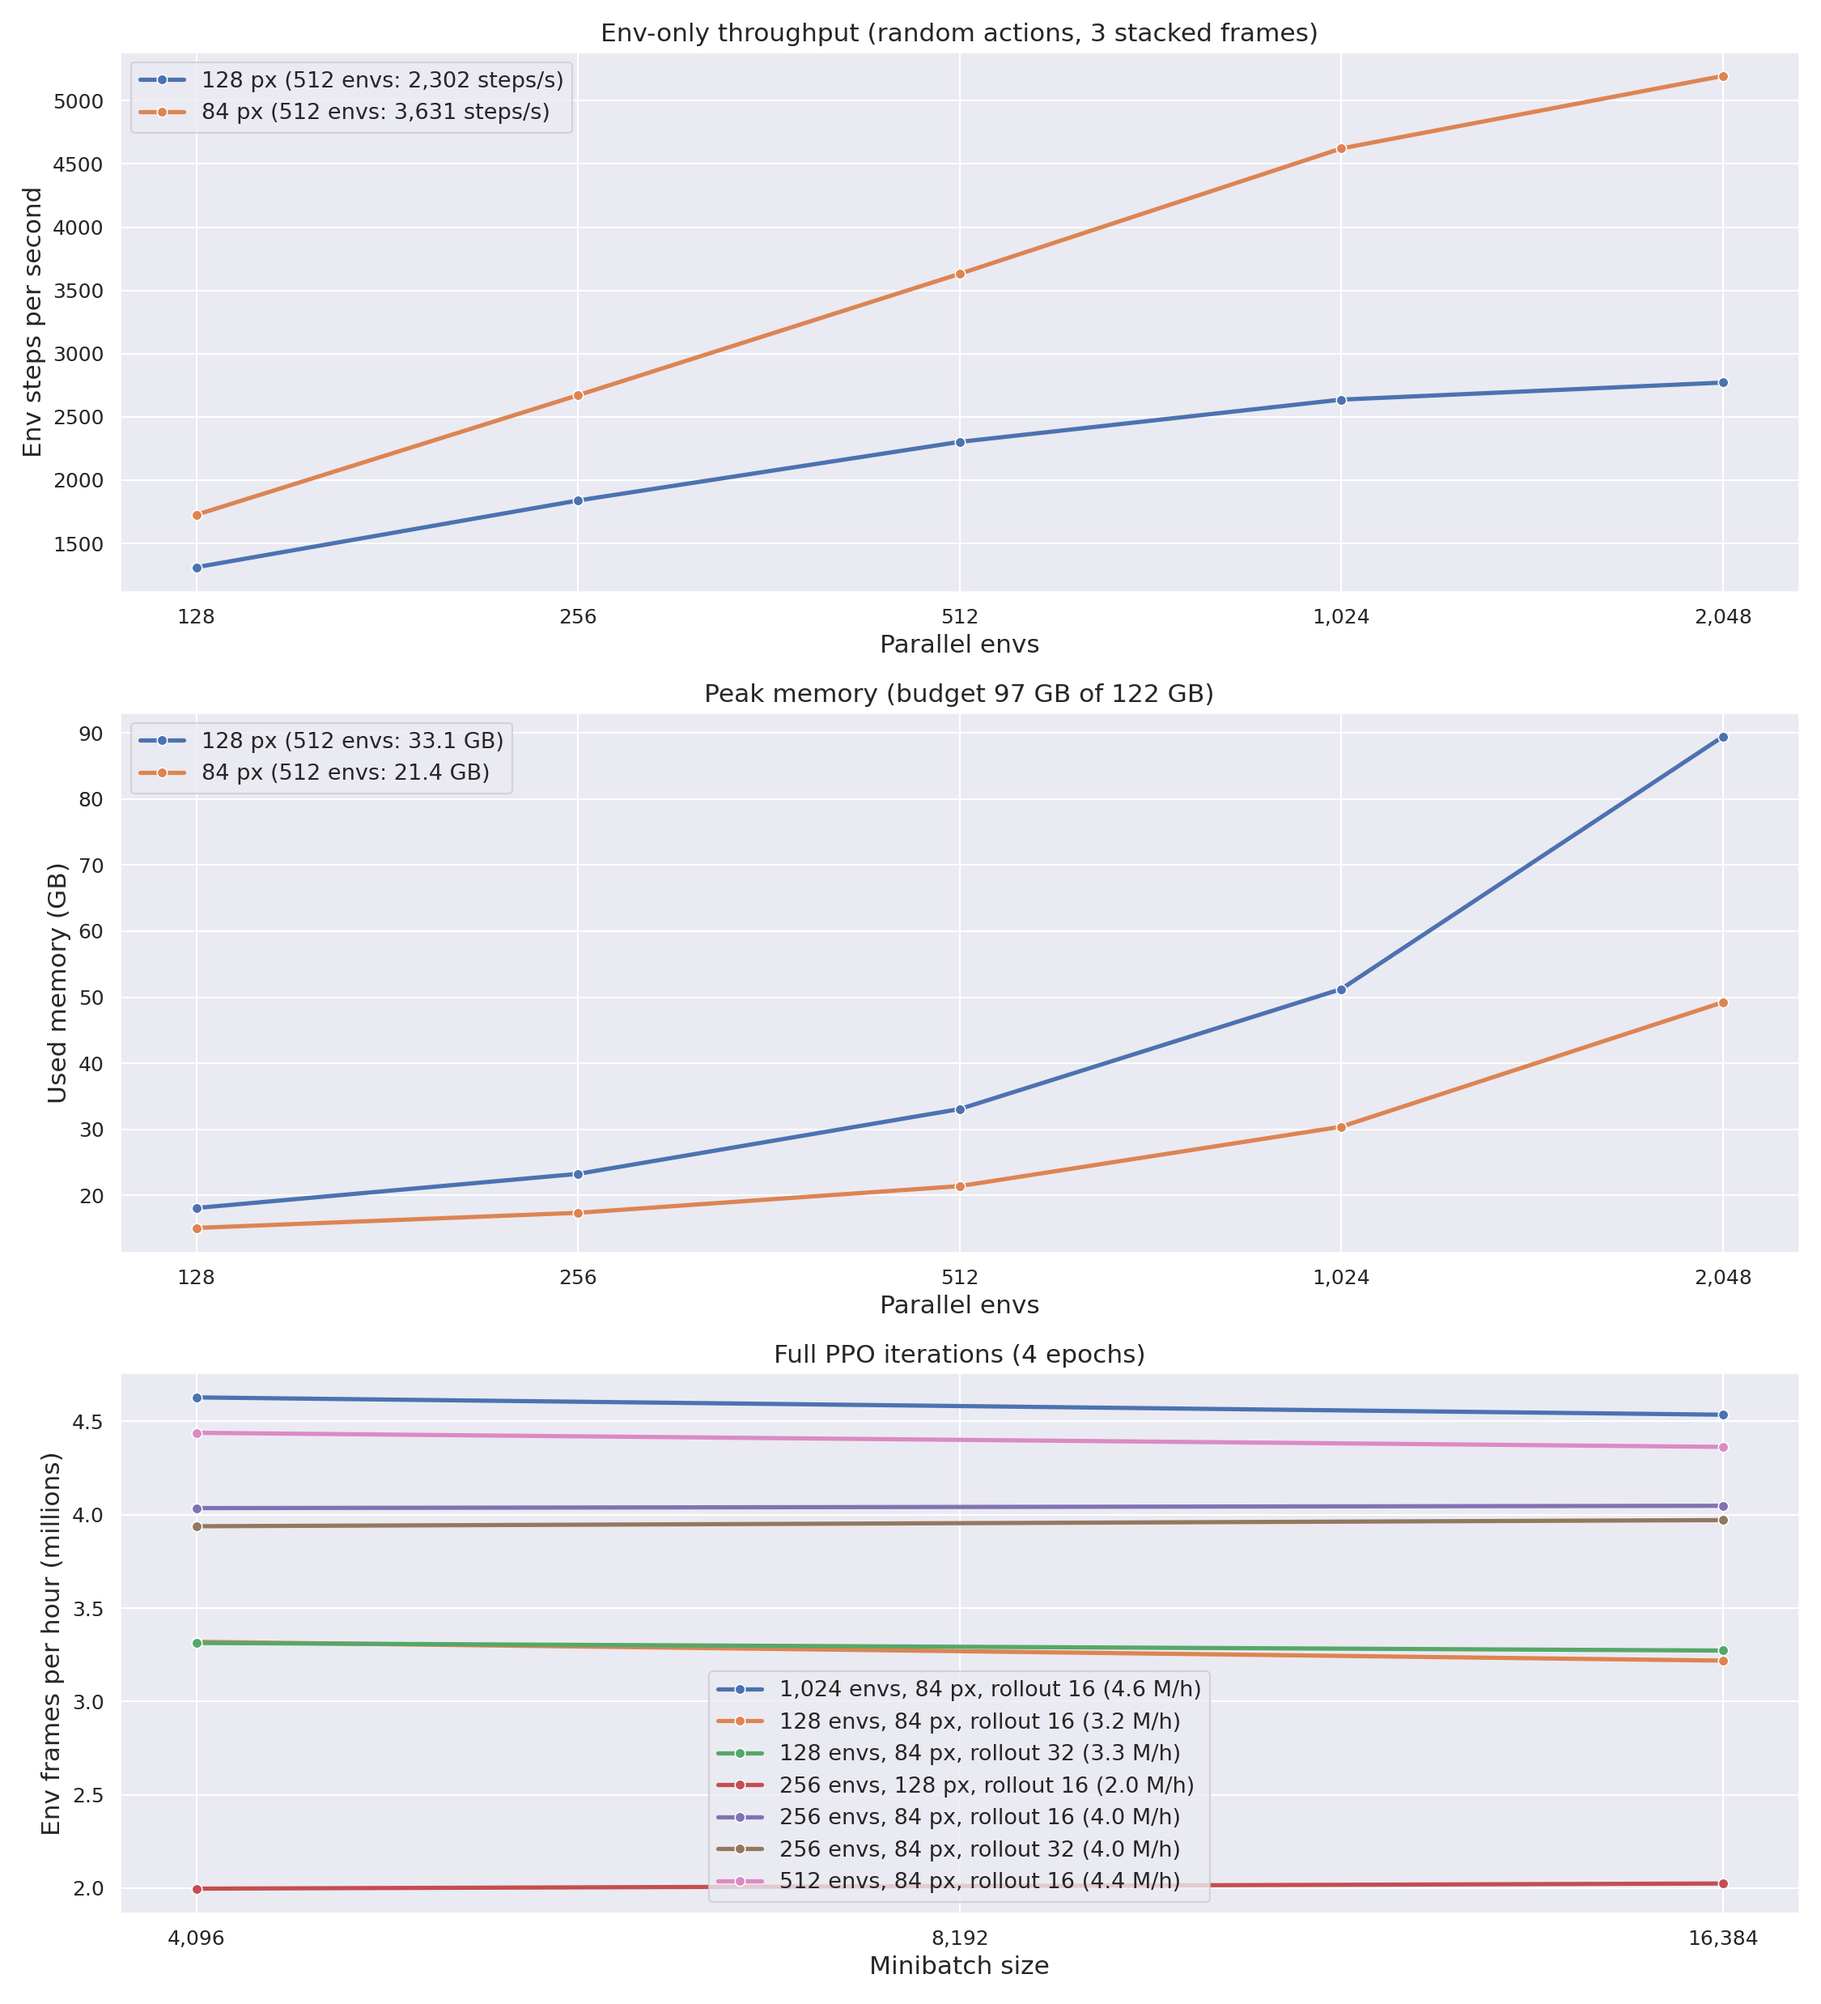
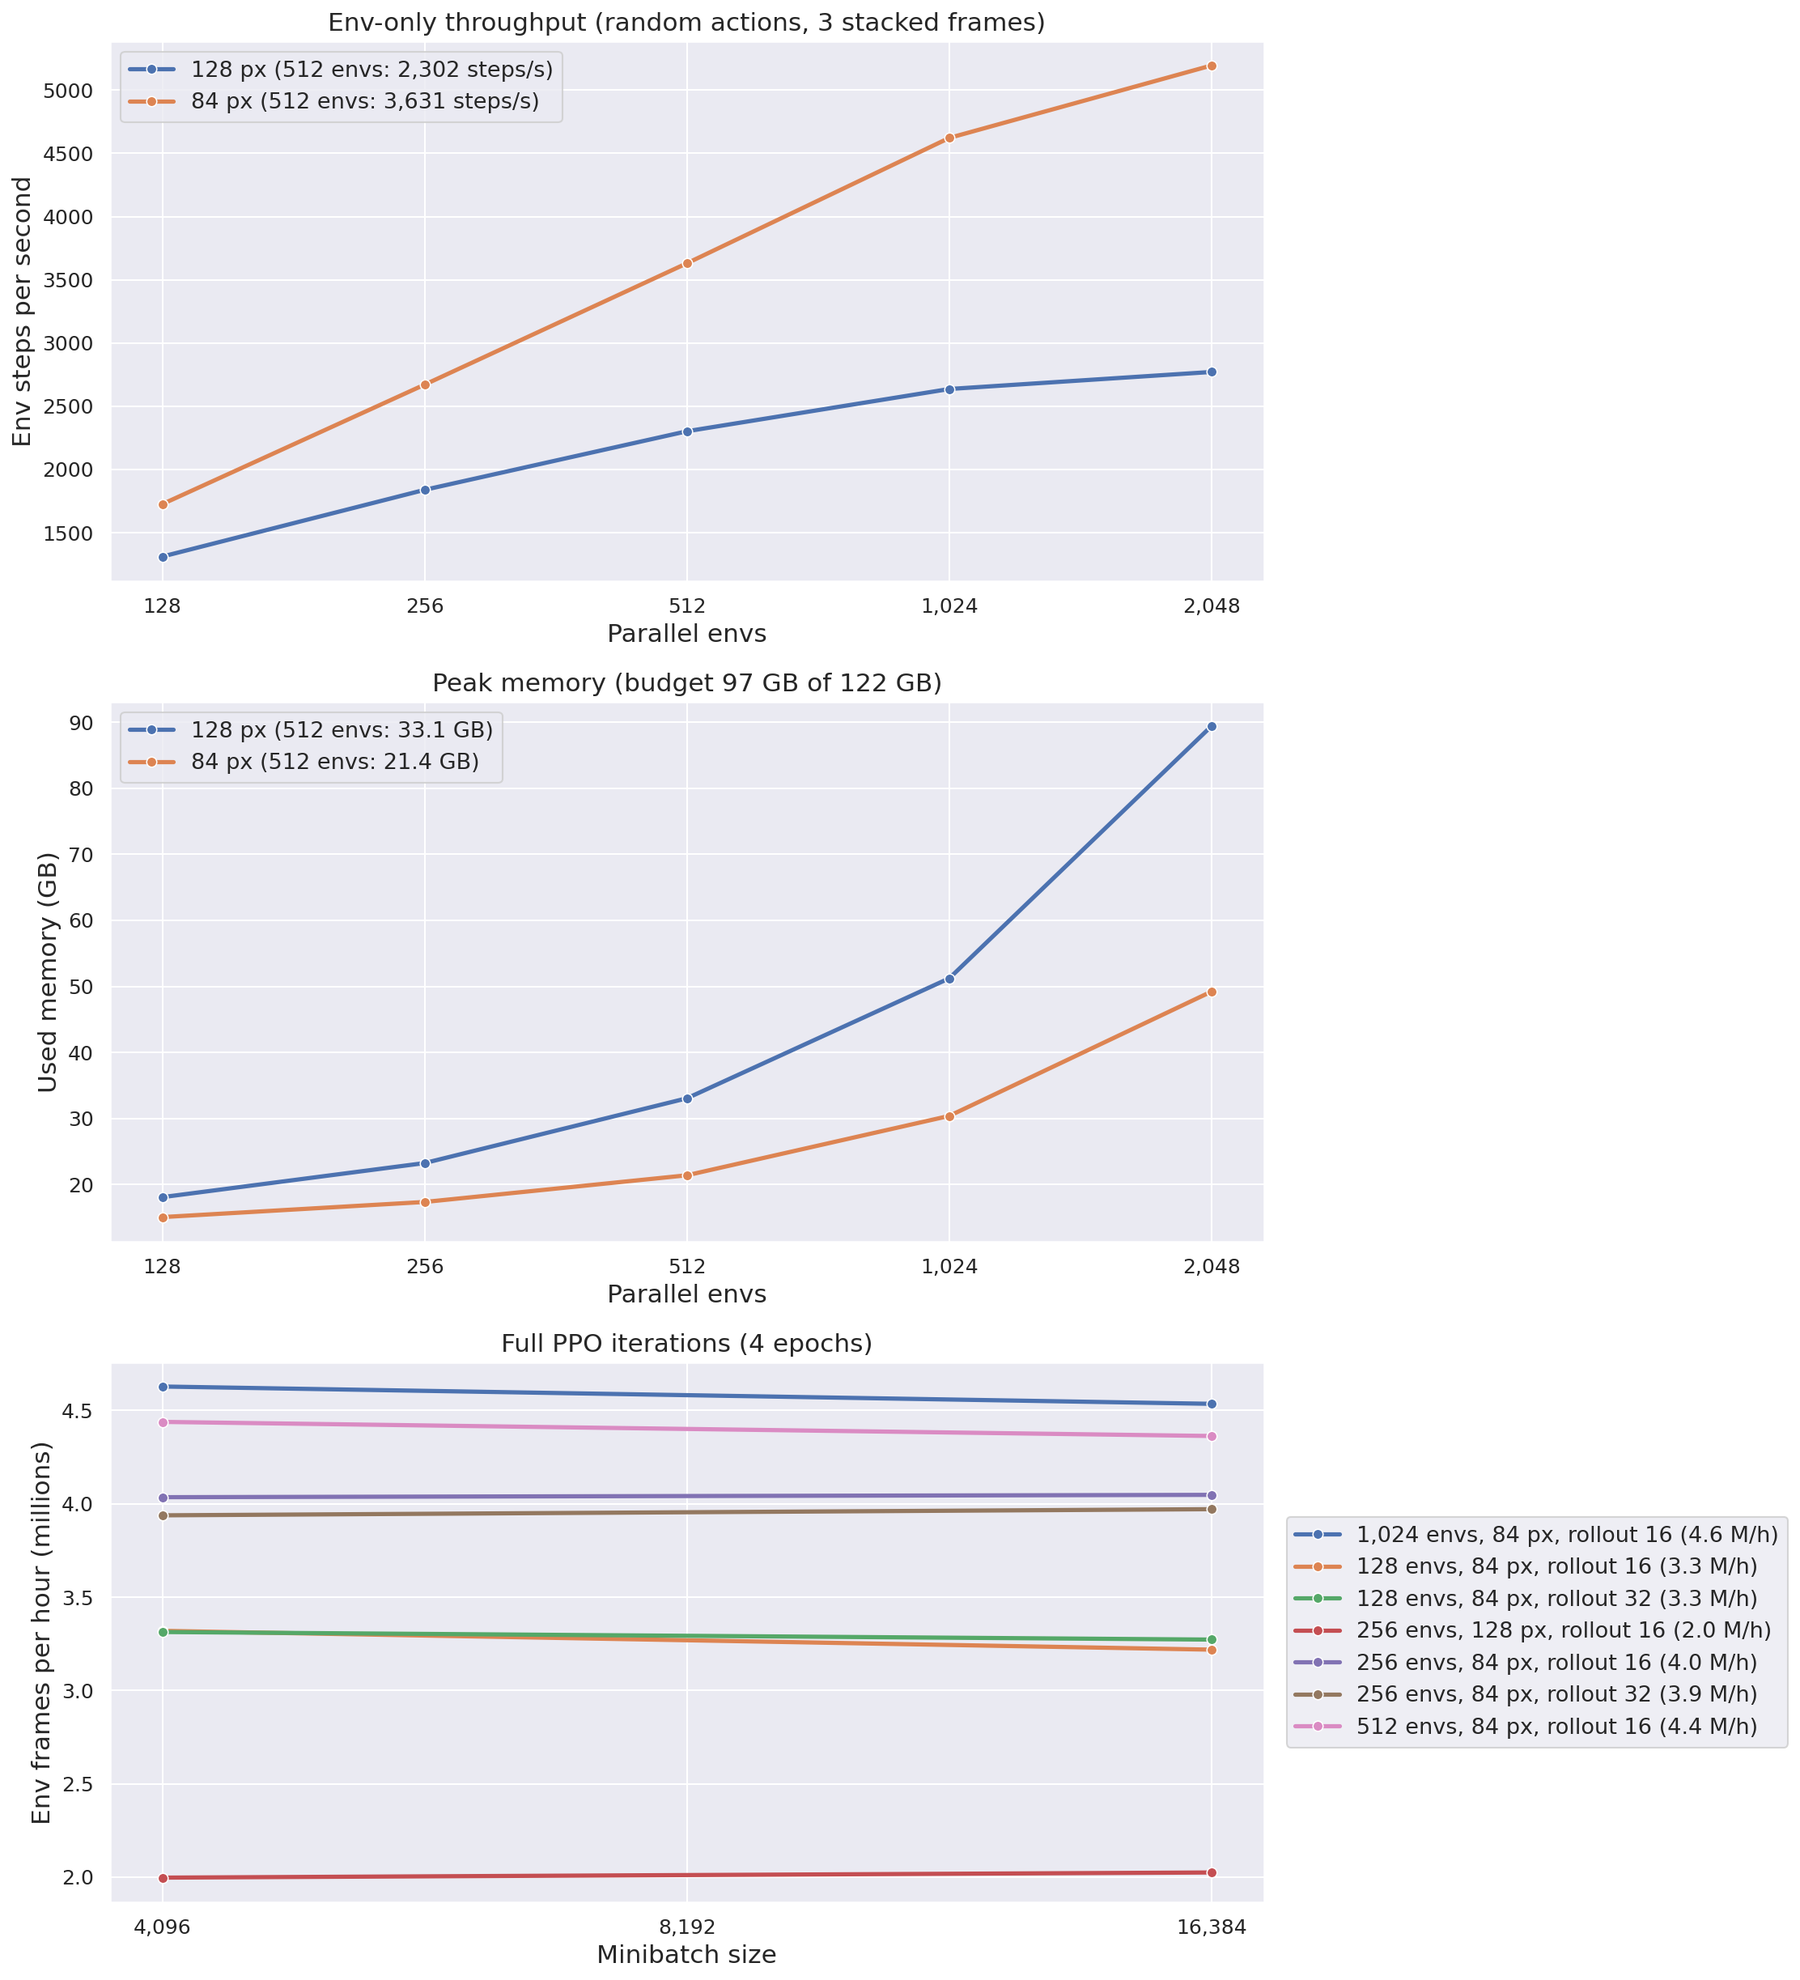
fix: keep Phase B rows during Phase A writes and move the benchmark legend off the data

diff --git a/scripts/benchmark_pixels.py b/scripts/benchmark_pixels.py
@@ -160,7 +160,9 @@ def write_csv(rows, csv_path):
         writer.writerows(rows)
 
 
-def phase_a(grid, out, csv_path):
+def phase_a(grid, existing_b, out, csv_path):
+    """Run Phase A. Every incremental write includes ``existing_b`` so a re-run with phases=A(B) against a
+    CSV that already has completed Phase-B rows can never overwrite them with Phase-A-only content."""
     rows = []
     for image in grid["images"]:
         for n in grid["num_envs"]:
@@ -179,7 +181,7 @@ def phase_a(grid, out, csv_path):
                             "env_steps_per_s": round(bench[-1]["env_steps_per_s"], 1)})
             rows.append(row)
             print(f"[benchmark] {json.dumps(row)}", flush=True)
-            write_csv(rows, csv_path)
+            write_csv(list(existing_b) + rows, csv_path)
     return rows
 
 
@@ -310,12 +312,12 @@ def plot(rows, out, total_gb):
     panels = 3 if len(b) else 2
     fig, axes = plt.subplots(panels, 1, figsize=(15, 5.5 * panels))
 
-    def finish(ax, title, xlabel, ylabel):
+    def finish(ax, title, xlabel, ylabel, legend_kwargs=None):
         ax.set_title(title, fontsize=15)
         ax.set_xlabel(xlabel, fontsize=15)
         ax.set_ylabel(ylabel, fontsize=15)
         ax.tick_params(labelsize=12)
-        ax.legend(fontsize=13, loc="best")
+        ax.legend(fontsize=13, **(legend_kwargs or {"loc": "best"}))
 
     for ax, column, title, ylabel, fmt in [
         (axes[0], "env_steps_per_s", "Env-only throughput (random actions, 3 stacked frames)", "Env steps per second",
@@ -342,9 +344,12 @@ def plot(rows, out, total_gb):
                          label=f"{series} ({float(last.frames_per_hour) / 1e6:.1f} M/h)", linewidth=2.5, marker="o", ax=ax)
         ax.set_xscale("log", base=2)
         ax.xaxis.set_major_formatter(FuncFormatter(lambda v, _: f"{int(v):,}"))
-        finish(ax, "Full PPO iterations (4 epochs)", "Minibatch size", "Env frames per hour (millions)")
+        # Up to 7 series on this panel: "best" placement lands the legend box on top of the flatter,
+        # lower-throughput lines. Anchor it outside the axes instead so it can never cover data.
+        finish(ax, "Full PPO iterations (4 epochs)", "Minibatch size", "Env frames per hour (millions)",
+               legend_kwargs={"loc": "center left", "bbox_to_anchor": (1.01, 0.5)})
     fig.tight_layout()
-    fig.savefig(out / "benchmark.png", dpi=150)
+    fig.savefig(out / "benchmark.png", dpi=150, bbox_inches="tight")
 
 
 def main():
@@ -371,7 +376,7 @@ def main():
 
     rows = []
     if "A" in phases:
-        rows = phase_a(grid, out, csv_path)
+        rows = phase_a(grid, existing_b, out, csv_path)
     elif csv_path.exists():
         with open(csv_path) as f:
             rows = [r for r in csv.DictReader(f) if r["phase"] == "A"]
@@ -380,11 +385,10 @@ def main():
         for r in rows_a:
             r["peak_used_gb"] = float(r["peak_used_gb"])
         rows += phase_b(grid, rows_a, existing_b, out, total_gb, csv_path)
+    else:
+        rows += existing_b  # this invocation didn't touch Phase B; keep its previously measured rows
 
-    with open(csv_path, "w", newline="") as f:
-        writer = csv.DictWriter(f, fieldnames=FIELDS, extrasaction="ignore")
-        writer.writeheader()
-        writer.writerows(rows)
+    write_csv(rows, csv_path)
     selected = select([r for r in rows if r["phase"] == "B"], total_gb)
     summary = {"total_memory_gb": round(total_gb, 1), "budget_gb": round(MEMORY_FRACTION * total_gb, 1),
                "max_update_share": MAX_UPDATE_SHARE, "selected": selected}
